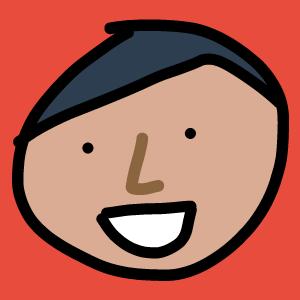
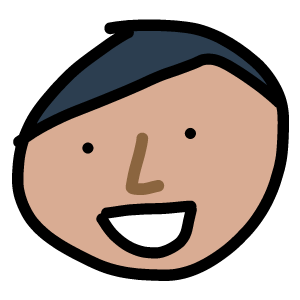
update profile pic

diff --git a/skeleton/css/custom.css b/skeleton/css/custom.css
@@ -80,7 +80,7 @@ img {
   }*/
 
   .site-avatar img {
-    border-radius: 100%;
+    border-radius: 5%;
   }
 
 /* site info */
